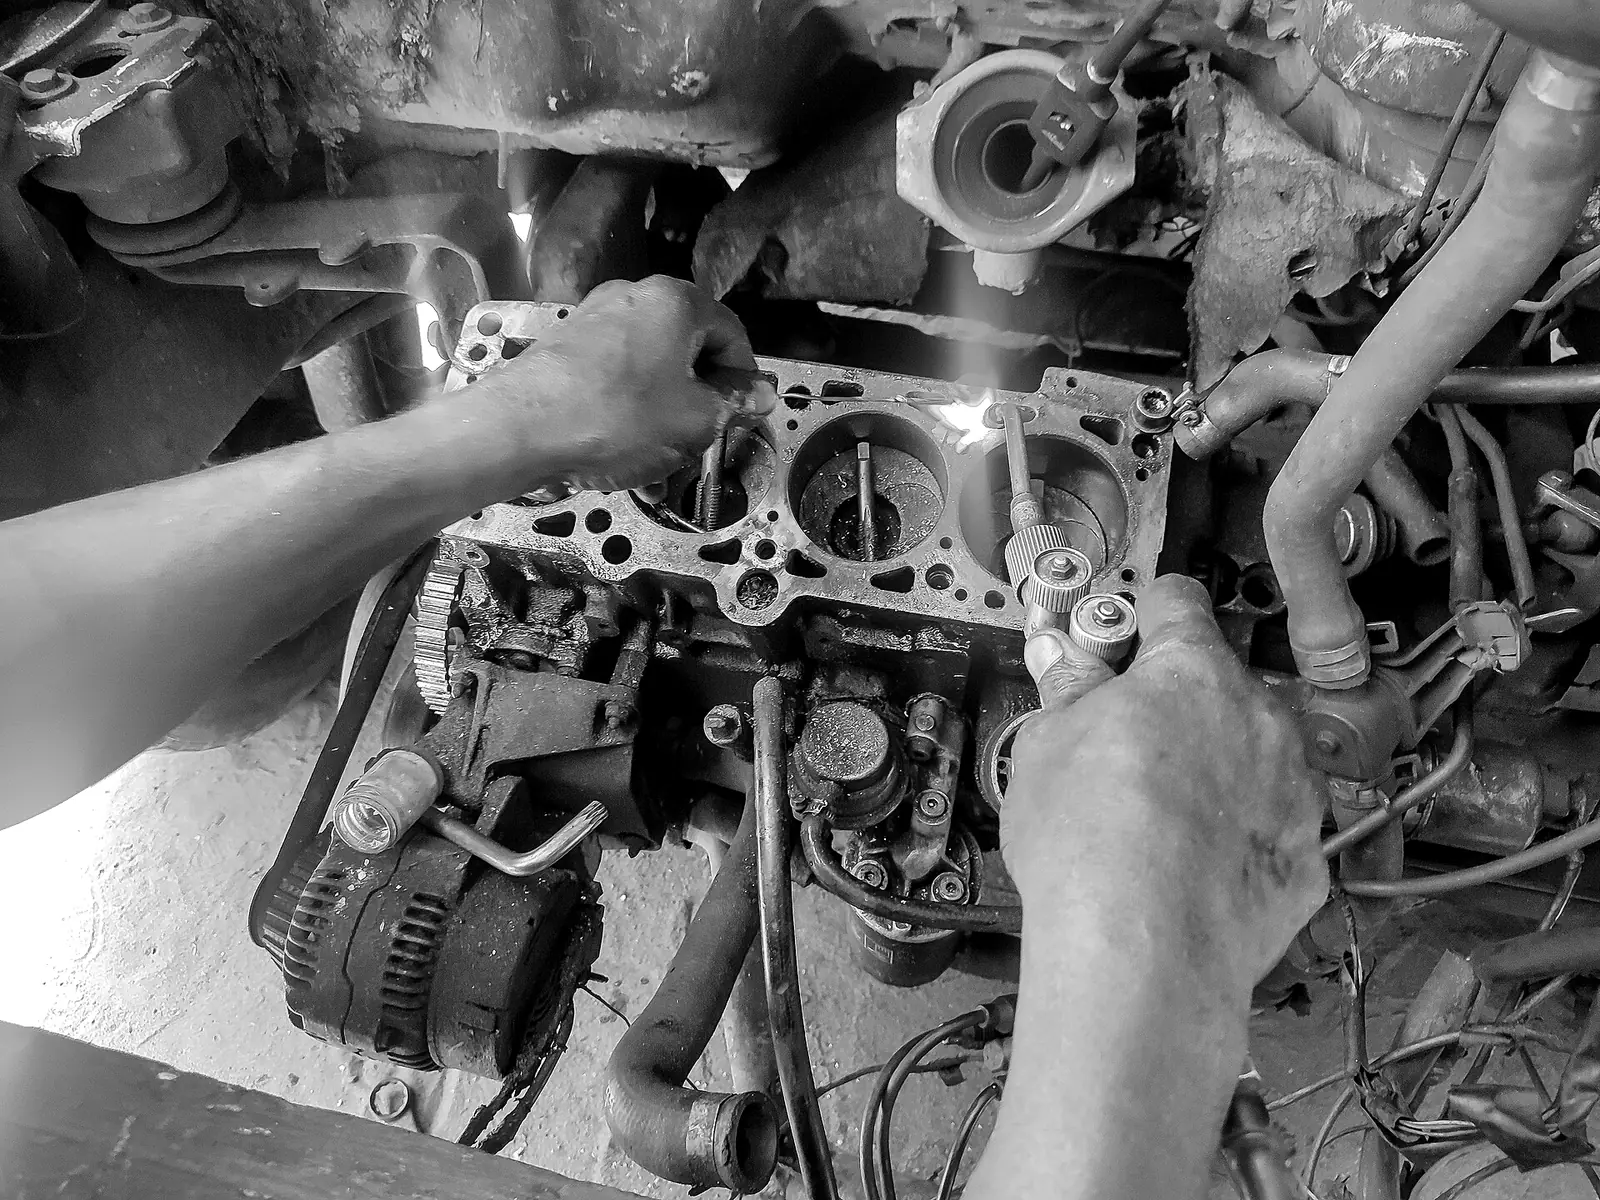
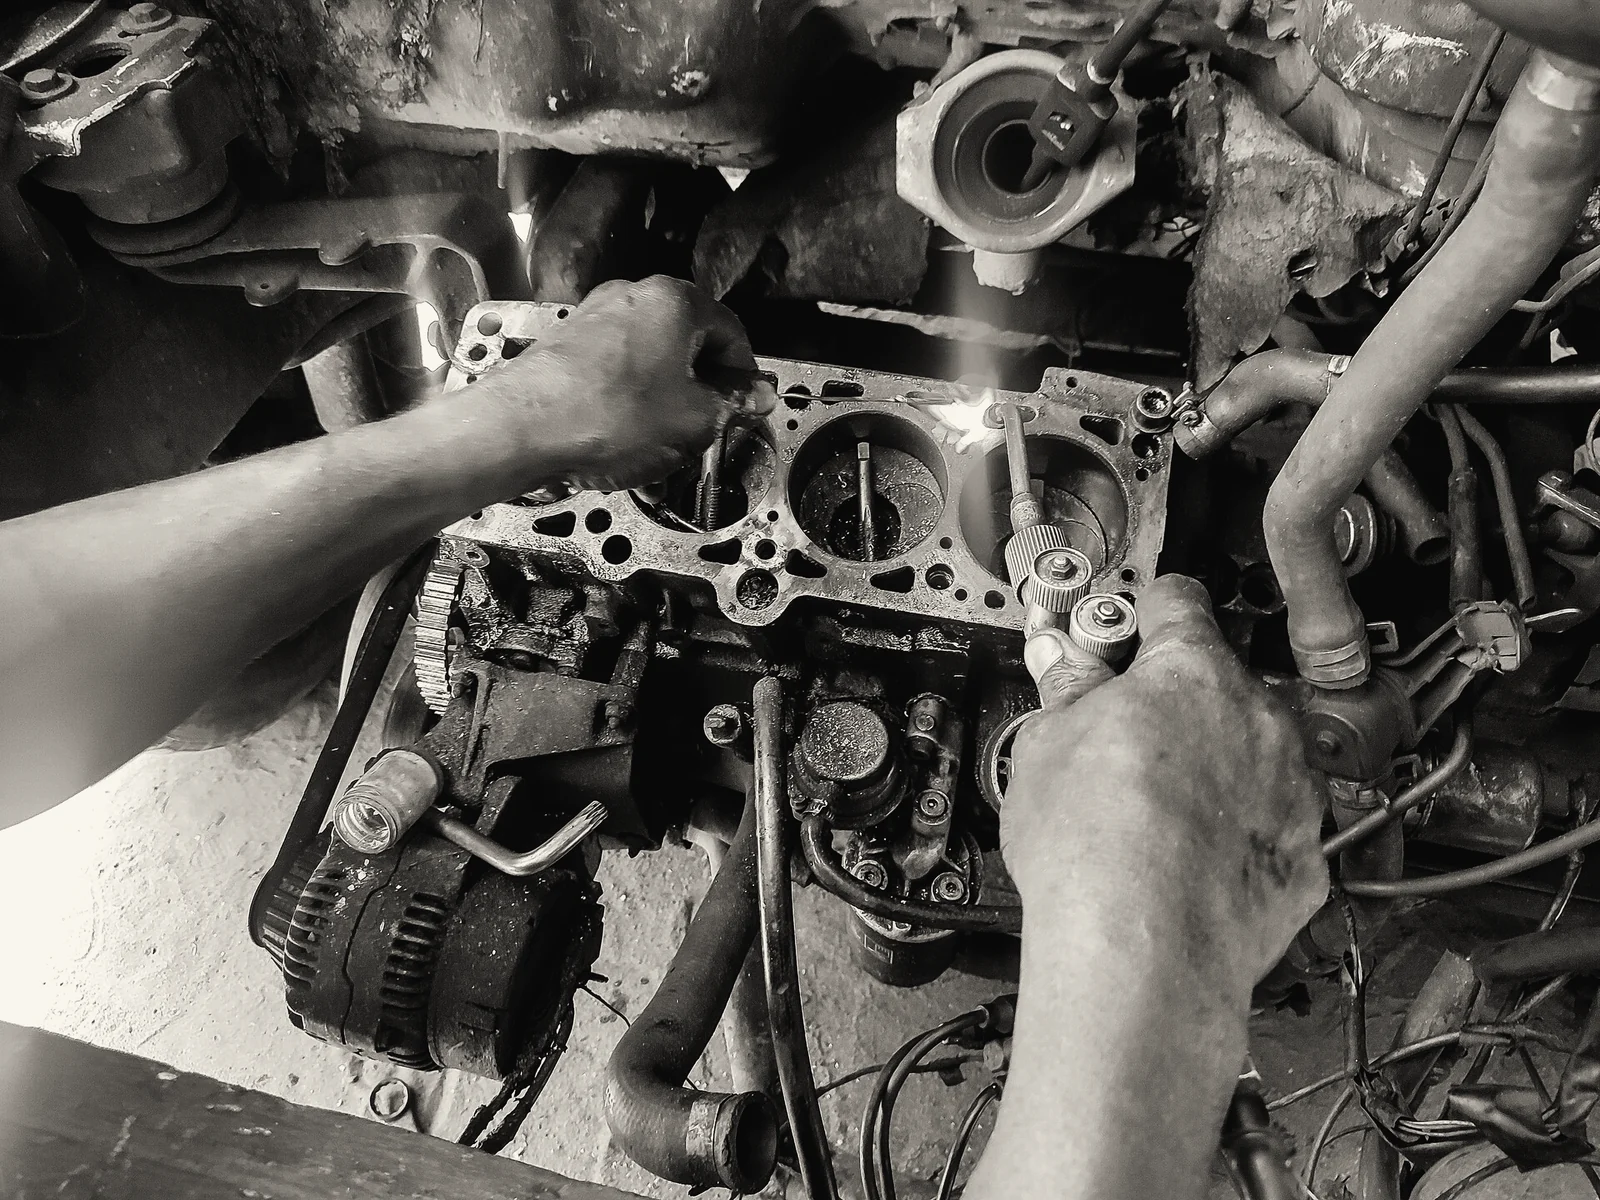
High-res Silvertone photos and new service images
- New homepage, panel beating, spray painting and electrical photos
- All photos upscaled 2x and exported up to 2560px with a Silvertone (black and white) filter
- Removed credits for photos that are no longer used

Claude-Session: https://claude.ai/code/session_01K9nk8M3PxHsiAm1hFj2QTa

diff --git a/src/pages/credits.html b/src/pages/credits.html
@@ -14,11 +14,8 @@
     <section class="section" aria-label="Photo credits list">
       <div class="wrap">
     <ul class="credits" aria-label="Photo credits">
-      <li data-reveal>{{img name="panel-beating" alt="A panel beater working inside a wheel arch" sizes="(min-width: 900px) 160px, 30vw"}}<div><p>Panel beater mending a vehicle 1</p><p class="muted">By Agbalagba, <a href="https://creativecommons.org/licenses/by-sa/4.0/">CC BY-SA 4.0</a>, via <a href="https://commons.wikimedia.org/w/index.php?curid=147896228">Wikimedia Commons</a></p></div></li>
       <li data-reveal>{{img name="engine-work" alt="Hands working on an open engine block" sizes="(min-width: 900px) 160px, 30vw"}}<div><p>Panel beater heating engine block</p><p class="muted">By Agbalagba, <a href="https://creativecommons.org/licenses/by-sa/4.0/">CC BY-SA 4.0</a>, via <a href="https://commons.wikimedia.org/w/index.php?curid=147896229">Wikimedia Commons</a></p></div></li>
       <li data-reveal>{{img name="fleet-service" alt="A mechanic working under a vehicle on a lift" sizes="(min-width: 900px) 160px, 30vw"}}<div><p>Public Works Fleet Division, Greenville</p><p class="muted">Public domain (<a href="https://creativecommons.org/publicdomain/zero/1.0/">CC0</a>), via <a href="https://www.rawpixel.com/image/9659063/image-person-fire-public-domain">rawpixel</a></p></div></li>
-      <li data-reveal>{{img name="engine-detail" alt="Close-up of an engine cylinder head" sizes="(min-width: 900px) 160px, 30vw"}}<div><p>Motor, engine, detail</p><p class="muted">Public domain (<a href="https://creativecommons.org/publicdomain/zero/1.0/">CC0</a>), via <a href="https://www.rawpixel.com/image/5903123/photo-image-public-domain-technology-free">rawpixel</a></p></div></li>
-      <li data-reveal>{{img name="spray-gun-1918" alt="An early pneumatic paint sprayer" sizes="(min-width: 900px) 160px, 30vw"}}<div><p>Detail of pneumatic paint sprayer, 21st Grand Division Transportation Corps, Camp Pullman, France, 1918</p><p class="muted">By the U.S. Army Signal Corps, public domain, via <a href="https://commons.wikimedia.org/wiki/File:21st_Grand_Div._Transportation_Corps,_Camp_Pullman,_France._Detail_of_pneumatic_paint_sprayer_-_DPLA_-_56a0c4546c83eb7c5cec43445207a7a8_(cropped).jpg">Wikimedia Commons</a></p></div></li>
       <li data-reveal>{{img name="road-ongwediva" alt="A road through Ongwediva" sizes="(min-width: 900px) 160px, 30vw"}}<div><p>C41 Oshikati Ondangwa</p><p class="muted">By jbdodane, <a href="https://creativecommons.org/licenses/by-sa/2.0/">CC BY-SA 2.0</a>, via <a href="https://commons.wikimedia.org/w/index.php?curid=32283059">Wikimedia Commons</a></p></div></li>
       <li data-reveal>{{img name="ongwediva-town" alt="Ongwediva's commercial area" sizes="(min-width: 900px) 160px, 30vw"}}<div><p>Commercial area Ongwediva 2</p><p class="muted">By Rtevels, <a href="https://creativecommons.org/licenses/by-sa/3.0/">CC BY-SA 3.0</a>, via <a href="https://commons.wikimedia.org/w/index.php?curid=16839148">Wikimedia Commons</a></p></div></li>
     </ul>

diff --git a/src/pages/index.html b/src/pages/index.html
@@ -6,7 +6,7 @@
 } -->
     <section class="hero" aria-labelledby="hero-title">
       <div class="hero__media">
-        {{img name="panel-beating" alt="A panel beater heats and straightens the steel inside a car's rear wheel arch" sizes="100vw" eager class="drift"}}
+        {{img name="hero-repair" alt="A dented blue car beside the same car being sanded and repaired in the workshop" sizes="100vw" eager class="drift"}}
       </div>
       <div class="wrap hero__content">
         <p class="kicker" data-reveal>Auto repair &middot; Ongwediva</p>
@@ -35,7 +35,7 @@
         </div>
         <ul class="cards cards--4">
           <li class="card" data-reveal>
-            <div class="card__media">{{img name="panel-beating" alt="Panel beating inside a wheel arch" sizes="(min-width: 1000px) 25vw, (min-width: 600px) 50vw, 100vw"}}</div>
+            <div class="card__media">{{img name="panel-workshop" alt="A panel beater hammers out a dent in a car's rear quarter panel in the workshop" sizes="(min-width: 1000px) 25vw, (min-width: 600px) 50vw, 100vw"}}</div>
             <div class="card__body">
               <span class="badge">{{icon hammer}}</span>
               <h3>Panel beating</h3>
@@ -44,7 +44,7 @@
             </div>
           </li>
           <li class="card" data-reveal>
-            <div class="card__media">{{img name="spray-gun-1918" alt="An early pneumatic paint sprayer" sizes="(min-width: 1000px) 25vw, (min-width: 600px) 50vw, 100vw"}}</div>
+            <div class="card__media">{{img name="spray-booth" alt="A painter in a protective suit spray-paints a masked car in a paint booth" sizes="(min-width: 1000px) 25vw, (min-width: 600px) 50vw, 100vw"}}</div>
             <div class="card__body">
               <span class="badge">{{icon spray}}</span>
               <h3>Spray painting</h3>
@@ -62,7 +62,7 @@
             </div>
           </li>
           <li class="card" data-reveal>
-            <div class="card__media">{{img name="engine-detail" alt="Close-up of an engine cylinder head" sizes="(min-width: 1000px) 25vw, (min-width: 600px) 50vw, 100vw"}}</div>
+            <div class="card__media">{{img name="electrical-diagnostics" alt="A technician tests a car's wiring with a multimeter and a diagnostic scanner under the open bonnet" sizes="(min-width: 1000px) 25vw, (min-width: 600px) 50vw, 100vw"}}</div>
             <div class="card__body">
               <span class="badge">{{icon bolt}}</span>
               <h3>Electrical</h3>

diff --git a/src/pages/services.html b/src/pages/services.html
@@ -16,7 +16,7 @@
     <div class="section">
       <div class="wrap svc-rows">
         <section class="split" id="panel-beating" aria-labelledby="s-panel">
-          <figure class="split__media" data-reveal>{{img name="panel-beating" alt="A panel beater heats and straightens the steel inside a car's rear wheel arch" sizes="(min-width: 900px) 50vw, 100vw"}}</figure>
+          <figure class="split__media" data-reveal>{{img name="panel-workshop" alt="A panel beater hammers out a dent in a car's rear quarter panel in the workshop" sizes="(min-width: 900px) 50vw, 100vw"}}</figure>
           <div class="split__text" data-reveal>
             <span class="badge">{{icon hammer}}</span>
             <h2 class="h2" id="s-panel">Panel beating</h2>
@@ -26,7 +26,7 @@
         </section>
 
         <section class="split split--flip" id="spray-painting" aria-labelledby="s-paint">
-          <figure class="split__media" data-reveal>{{img name="spray-gun-1918" alt="An early pneumatic paint sprayer photographed in 1918" sizes="(min-width: 900px) 50vw, 100vw"}}</figure>
+          <figure class="split__media" data-reveal>{{img name="spray-booth" alt="A painter in a protective suit spray-paints a masked car in a paint booth" sizes="(min-width: 900px) 50vw, 100vw"}}</figure>
           <div class="split__text" data-reveal>
             <span class="badge">{{icon spray}}</span>
             <h2 class="h2" id="s-paint">Spray painting</h2>
@@ -46,7 +46,7 @@
         </section>
 
         <section class="split split--flip" id="electrical" aria-labelledby="s-elec">
-          <figure class="split__media" data-reveal>{{img name="engine-detail" alt="Black and white close-up of an engine's cylinder head and fittings" sizes="(min-width: 900px) 50vw, 100vw"}}</figure>
+          <figure class="split__media" data-reveal>{{img name="electrical-diagnostics" alt="A technician tests a car's wiring with a multimeter and a diagnostic scanner under the open bonnet" sizes="(min-width: 900px) 50vw, 100vw"}}</figure>
           <div class="split__text" data-reveal>
             <span class="badge">{{icon bolt}}</span>
             <h2 class="h2" id="s-elec">Electrical repairs</h2>

diff --git a/src/pages/fleet-and-insurance.html b/src/pages/fleet-and-insurance.html
@@ -54,7 +54,7 @@
 
     <section class="section" aria-labelledby="work-title">
       <div class="wrap split split--flip">
-        <figure class="split__media" data-reveal>{{img name="panel-beating" alt="A panel beater heats and straightens the steel inside a car's rear wheel arch" sizes="(min-width: 900px) 50vw, 100vw"}}</figure>
+        <figure class="split__media" data-reveal>{{img name="panel-workshop" alt="A panel beater hammers out a dent in a car's rear quarter panel in the workshop" sizes="(min-width: 900px) 50vw, 100vw"}}</figure>
         <div class="split__text" data-reveal>
           <p class="kicker">Under one roof</p>
           <h2 class="h2" id="work-title">The full job</h2>
